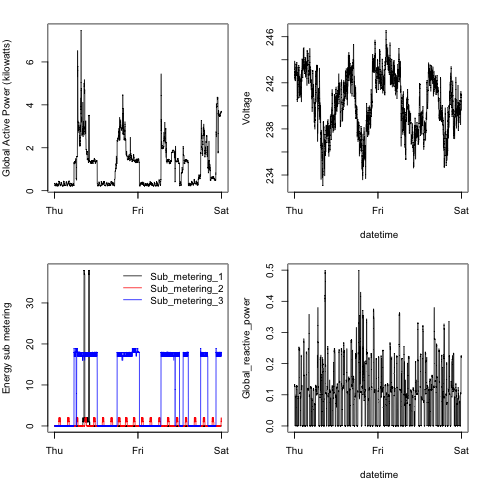
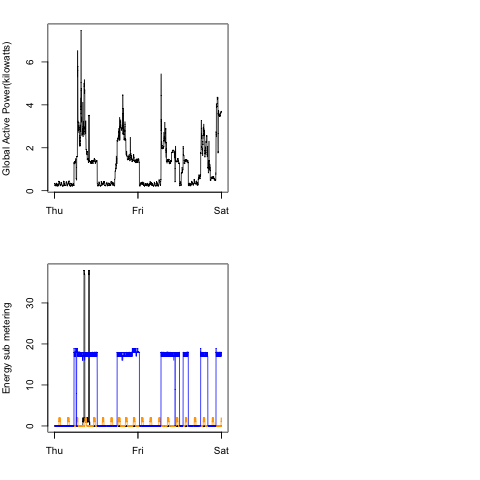
Update Plot2.png, README.md
noted mistake in Plot2.png.   Updated README to explain the
GetandTidyData.R script.

diff --git a/README.md b/README.md
@@ -1,3 +1,16 @@
+## User Instructions
+To use, download and unzip dataset noted below. 
+Then run "GetandTidyData.R" in the appropriate working directory.
+This script will take the larger dataset and subset and clean by:
+
+* Only using rows from the correct dates
+* Adding a new "Timestamp" filed that combines Date and Time and uses the striptime function to ensure proper formatting
+* Adjusts column order (personal preference)
+
+Once data is prepared, the 4 "plot_n.R" functions will create the desired graphs.
+
+## Assignment:
+
 ## Introduction
 
 This assignment uses data from
